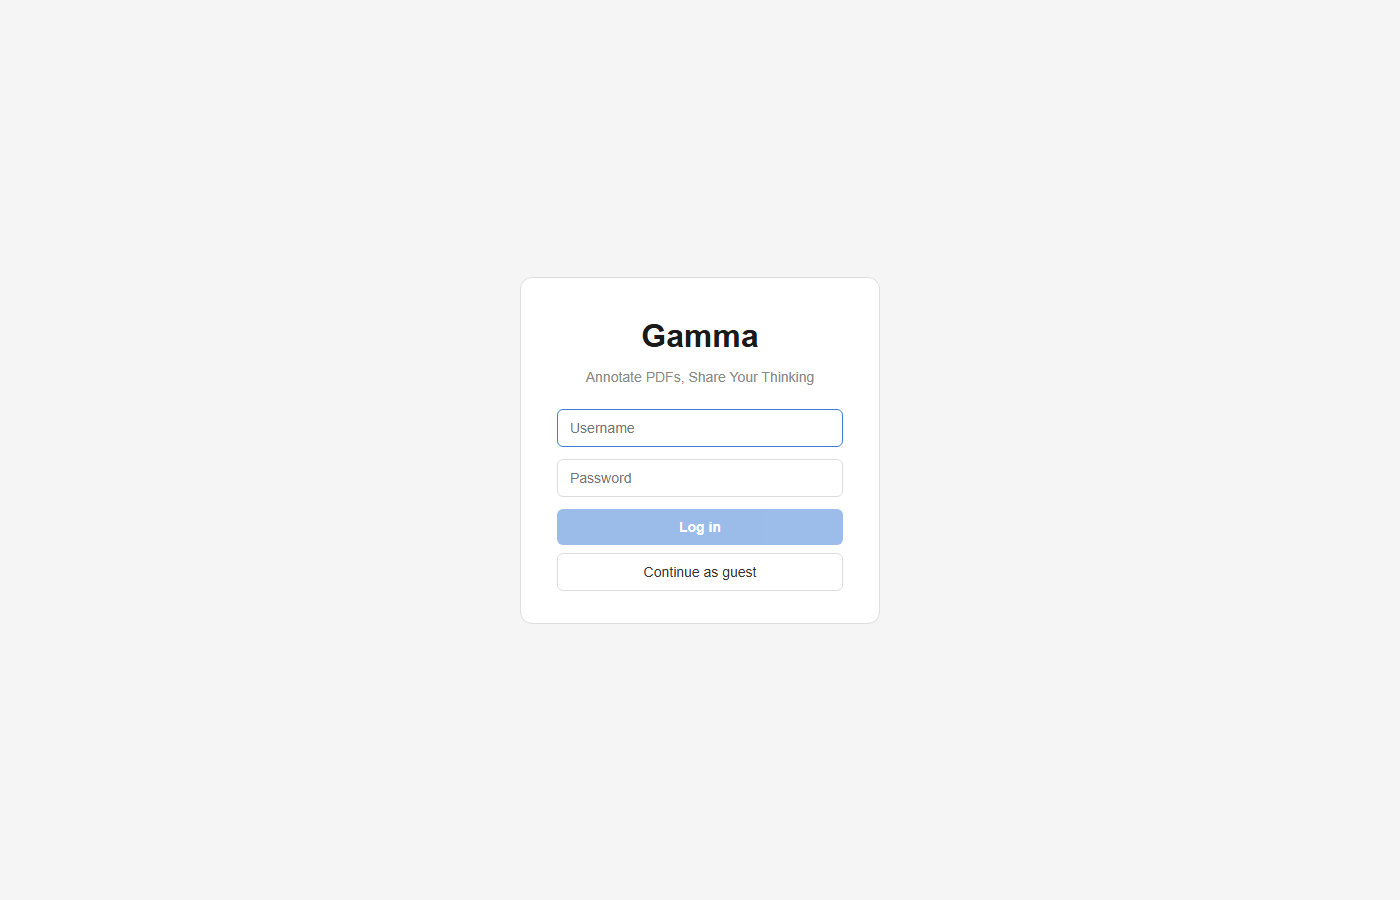
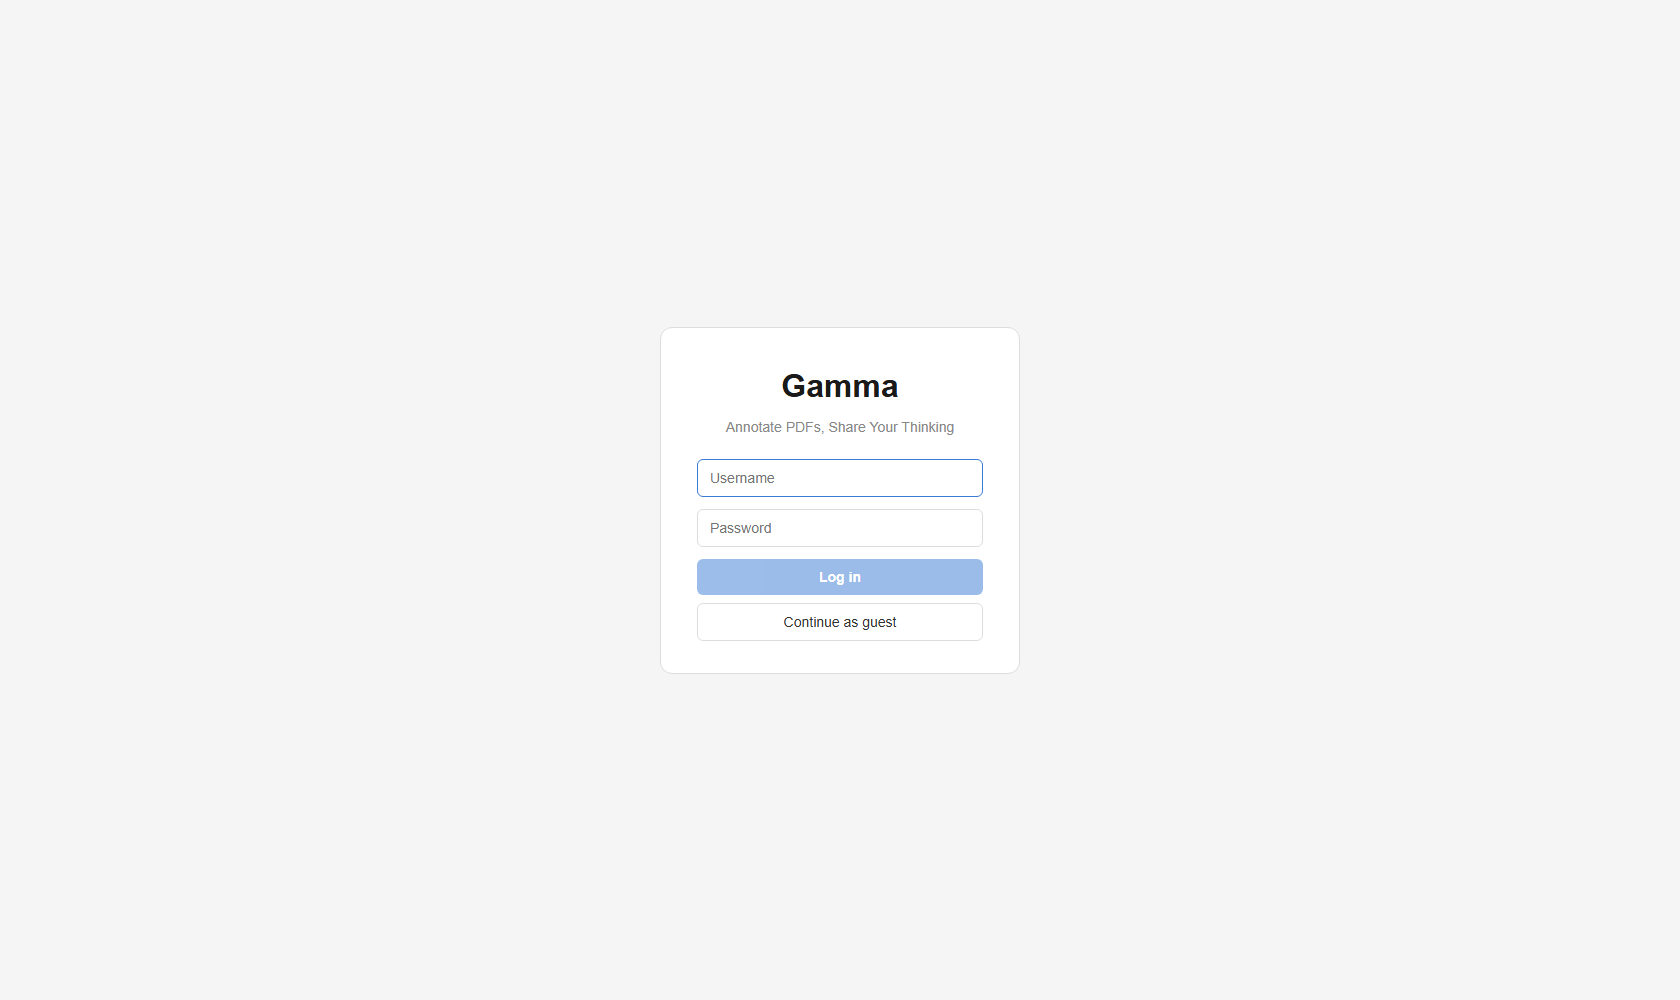
update readme and refresh screenshots

Changed region(s): [[0.3993, 0.4667, 0.6143, 0.6533], [0.43, 0.3422, 0.5836, 0.4356], [0.5836, 0.4667, 0.6143, 0.4978]]

diff --git a/README.md b/README.md
@@ -33,16 +33,16 @@ Open a paper by pasting any link (arXiv, DOI, or a publisher page — Gamma find
 - **Highlight** — select text, pick a color, add a comment. Each highlight becomes a block.
 - **Outliner notes** — highlights and free notes are the same kind of block: nest them, drag-reorder, `[[link]]` between them, write markdown + math. Click a note to jump the PDF to it (and back).
 - **Reference links** — link a citation in the PDF to another paper in your library; blue underlined regions are clickable, and a global **← Back** unwinds jumps across documents.
-- **Ask the AI** — chat about the open paper (or several at once) with Anthropic or OpenAI models, paste figures, or attach the whole PDF so the model sees tables and plots.
+- **Ask the AI** — chat about the open paper (or pick several at once) with Anthropic or OpenAI models, or just sign in with your ChatGPT subscription — no API key. Paste figures, or attach the whole PDF so the model sees tables and plots.
 - **Dockable panels** — drag any window's grip to the left, right, or bottom; double-click to collapse.
 
 <!-- Demo GIF slot ➜ record: the AI chat answering a question about the open paper. Save as docs/demo-chat.gif -->
 
 ### 🗂 Organize your library
 
-![Home page with folders, recent carousel, and labels](./docs/screenshots/02-home-carousels.png)
+![Home page with folders, recently viewed, and the recents feed](./docs/screenshots/02-home-carousels.png)
 
-A file-browser home: drag papers into folders (storage stays flat — folders are just metadata), tag them with labels, and search **everything at once** with `Ctrl+F` — notes, highlights, and the PDF's own text, with match-case / whole-word / regex and replace-across-notes.
+A file-browser home: a recents feed of all your papers (sort by updated / created / title), a *Recently viewed* row on top, folders you drag papers into (storage stays flat — folders are just metadata, so a paper can live in several), and labels. `Ctrl+F` searches **everything at once** — notes, highlights, and the full text of every PDF in your library — with match-case / whole-word / regex toggles, label chips to narrow the scope, and a collapsed mode that works like a browser find bar. Matching is forgiving: "3000" finds "3,000-qubit" across a line break.
 
 <!-- Demo GIF slot ➜ record: dragging a paper into a folder, then a Ctrl+F search lighting up matches. Save as docs/demo-library.gif -->
 
@@ -62,7 +62,8 @@ App-level username/password auth with per-user isolated data. Guest accounts get
 
 ### A few more things
 
-- **Metadata & citations** — on open, each paper is resolved (arXiv → DOI → AI) so the title, authors, and venue auto-fill. One click copies BibTeX or a slide-ready citation that pastes into PowerPoint with real italics.
+- **Metadata & citations** — on open, each paper is resolved (arXiv → DOI → AI) so the title, authors, and venue auto-fill; any field can be hand-edited in the popover. One click copies BibTeX or a slide-ready citation that pastes into PowerPoint with real italics.
+- **Tabs follow you** — open tabs sync to your account, so another browser or device picks up right where you left off.
 - **Import existing annotations** — highlights already saved in the file by SumatraPDF, Acrobat, or Preview are imported as blocks. Logseq PDF exports import too.
 - **Open access fallback** — a paywalled DOI falls back to a legal open-access copy (via Unpaywall) when one exists.
 - **Export** — download a zip of all your data (SQLite snapshots + every upload) from the account menu.
@@ -150,7 +151,7 @@ Put a TLS-terminating reverse proxy (Caddy, nginx) in front of 9001 for a domain
 | `GAMMA_AI_ANTHROPIC_BASE_URL` | No | `https://api.anthropic.com` | Default Anthropic-protocol endpoint, e.g. `https://api.deepseek.com/anthropic` |
 | `GAMMA_AI_OPENAI_BASE_URL` | No | `https://api.openai.com` | Default OpenAI-compatible endpoint |
 
-AI is configured in the app, not the environment: each user adds provider entries under account menu → *AI providers & keys…* (pick the API format — Anthropic Messages or OpenAI Chat Completions — then a key, plus optional label, base URL, and model list). Keys are stored server-side per user and never sent back to the browser. The base-URL variables above only change the per-protocol defaults shown in that dialog. For docker compose, put these in `.env` (see [.env.example](./.env.example)).
+AI is configured in the app, not the environment: each user adds provider entries under account menu → *AI providers & keys…* (pick the API format — Anthropic Messages or OpenAI Chat Completions — then a key, plus optional label, base URL, and model list), or connects a ChatGPT Plus/Pro subscription with *Sign in with ChatGPT* — OAuth, no key at all. Keys are stored server-side per user and never sent back to the browser. The base-URL variables above only change the per-protocol defaults shown in that dialog. For docker compose, put these in `.env` (see [.env.example](./.env.example)).
 
 </details>
 

diff --git a/.claude/skills/push_merge/SKILL.md b/.claude/skills/push_merge/SKILL.md
@@ -35,14 +35,9 @@ Turn the working tree into a pushed branch + PR against `main`.
 4. **Push**: `git push -u origin <branch>`.
 
 5. **PR**: `gh pr create --base main --title "<title>" --body "<summary>"` —
-   a few bullet points of what changed and how it was verified; body ends
-   with:
+   a few bullet points of what changed and how it was verified.
 
-   ```
-   🤖 Generated with [Claude Code](https://claude.com/claude-code)
-   ```
-
-   Report the PR URL.
+6. **Merge**: If the PR is clean and ready to merge, merge.
 
 ## After the merge
 
